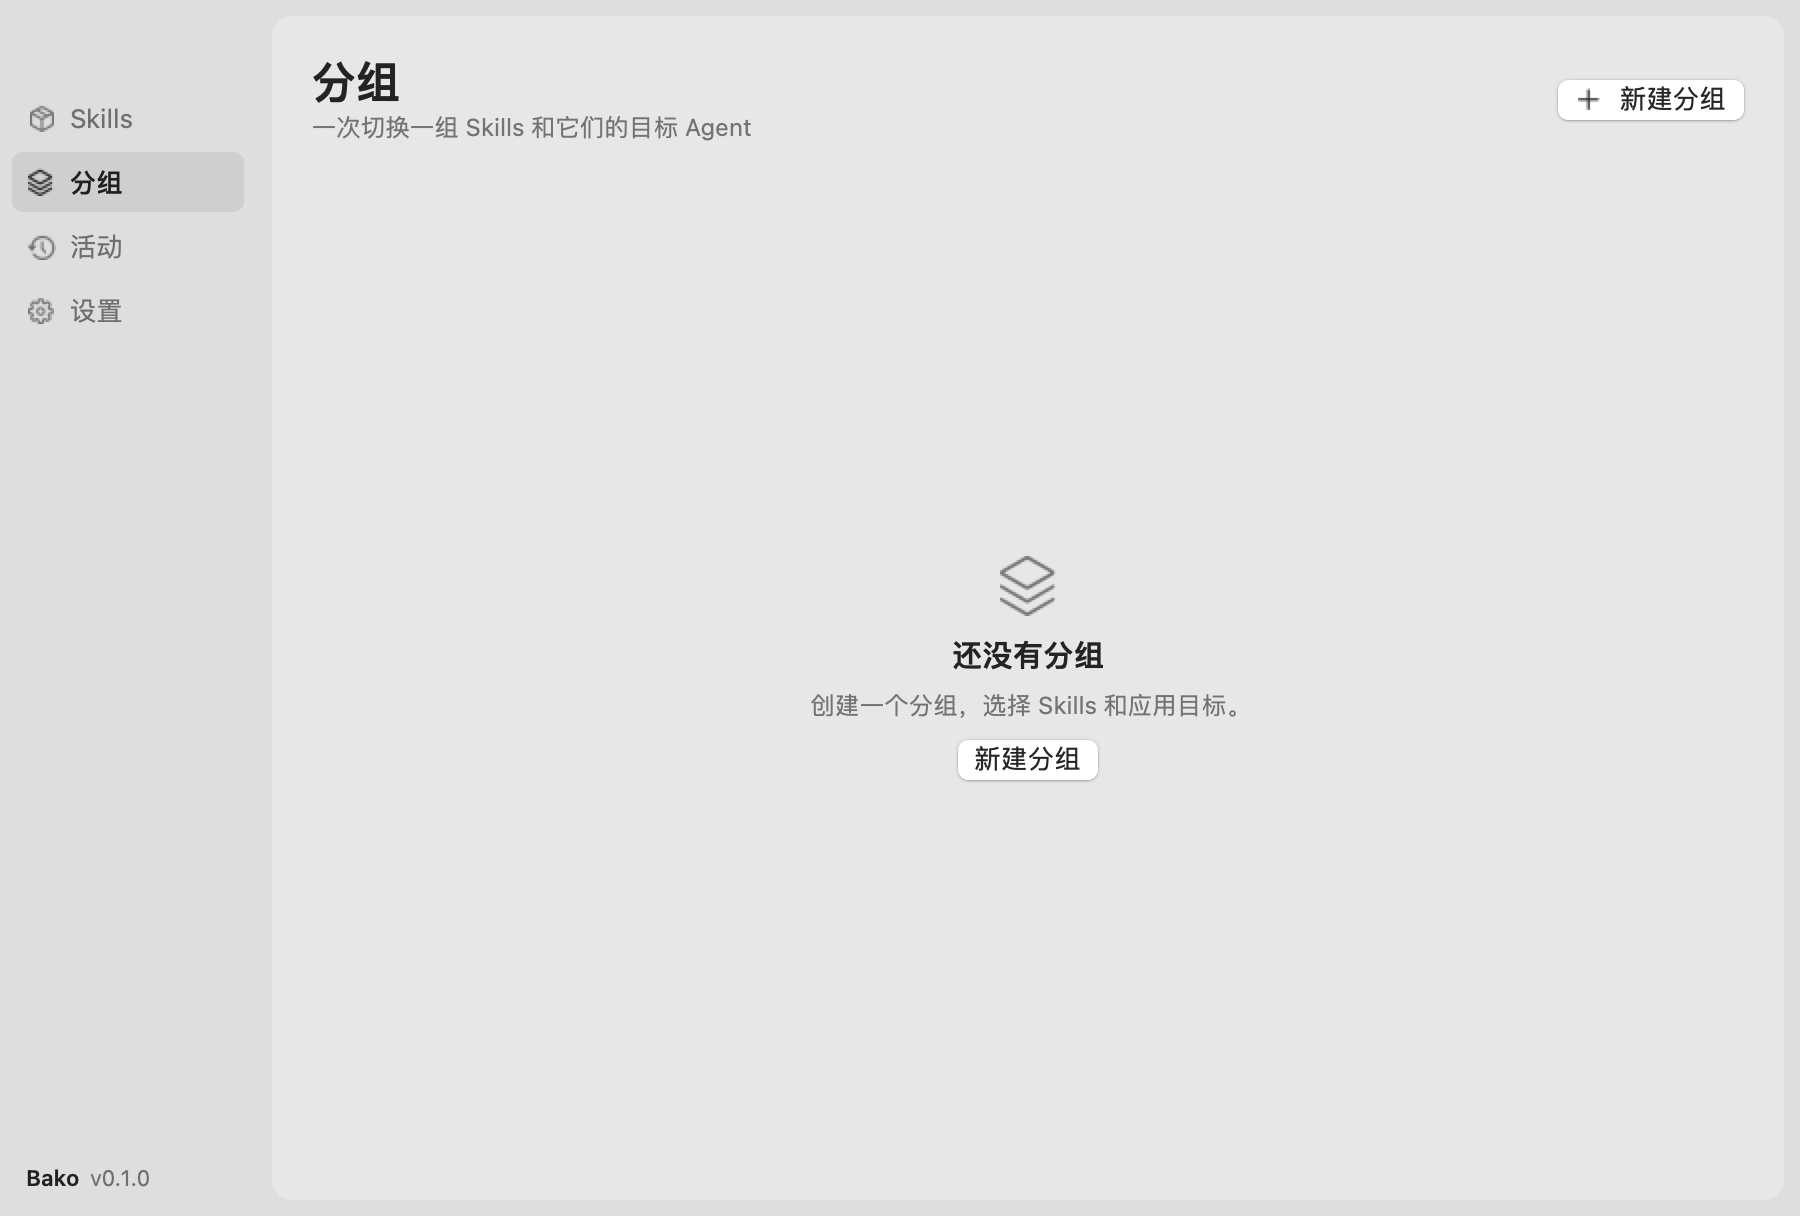
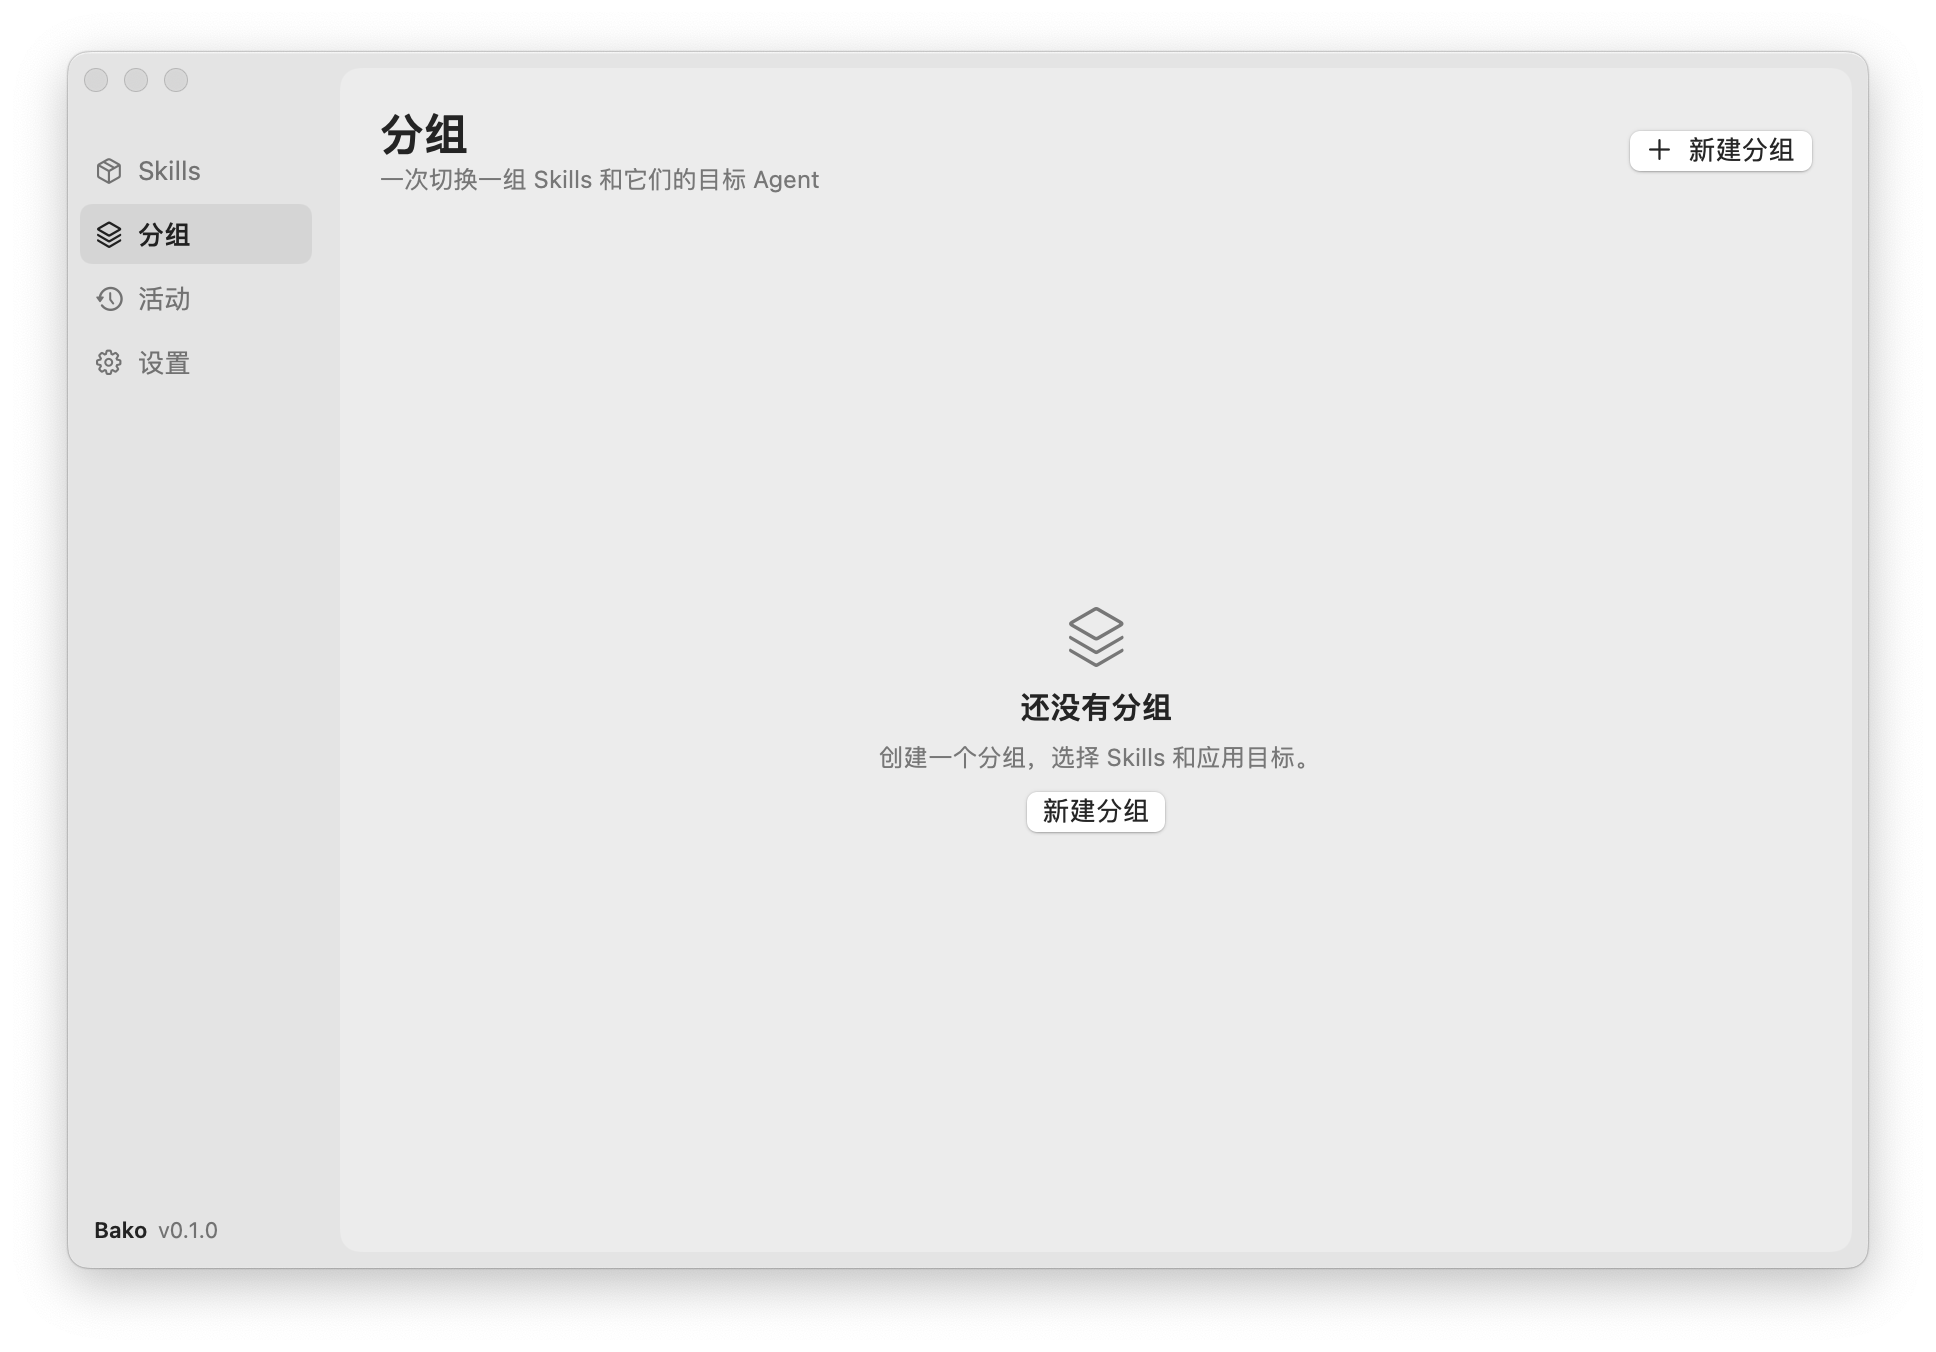
docs: enhance README with group workflow feature and updated screenshots

Changed region(s): [[0.0, 0.0, 1.0, 1.0], [0.4356, 0.4375, 0.6844, 0.6562]]

diff --git a/README.md b/README.md
@@ -1,8 +1,14 @@
 # Bako
 
-Bako 是一款面向 macOS 12 及以上版本的本机 Agent Skills 集中管理工具。它把分散在各 Agent 用户目录中的 Skills 迁移到中央存储，再通过软链接挂载回原目录；用户可以用分组一次切换多个 Agent 的 Skill 组合。
+Bako 是一款面向 macOS 12 及以上版本的本机 Agent Skills 集中管理工具。它把分散在各 Agent 用户目录中的 Skills 迁移到中央存储，再通过软链接挂载回原目录；核心的分组功能允许用户把一组 Skills 与目标 Agent 绑定，并在主窗口或菜单栏中一键切换不同工作流。
+
+## 界面预览
+
+Skills 集中管理：
 
 ![Bako Skills view screenshot](docs/assets/bako-screenshot.png)
+
+分组工作流切换：
 
 ![Bako Groups view screenshot](docs/assets/bako-groups-screenshot.png)
 
